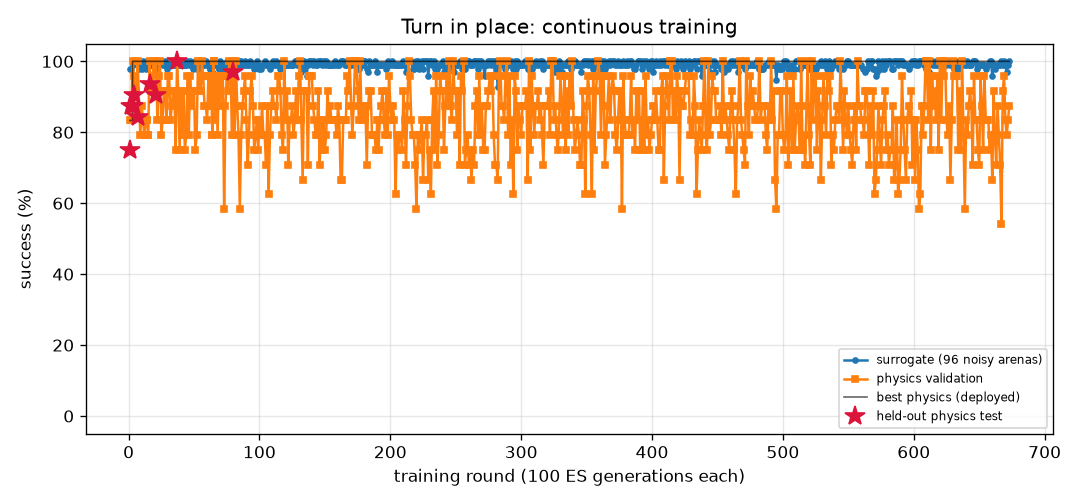
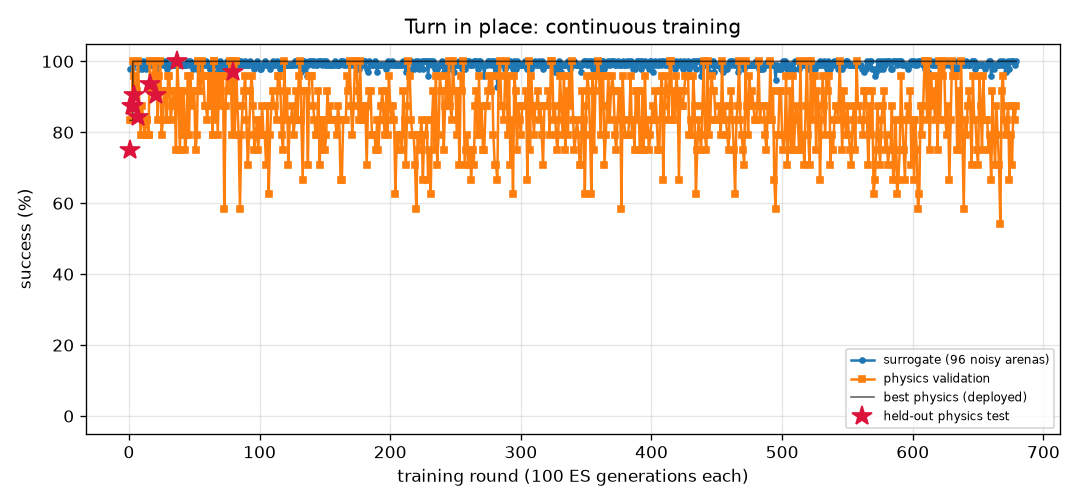
FlyLab: continuous training progress
- walk_forward: optimal, physics val 100% of 24, round 197
- turn: optimal, physics val 100% of 24, round 679
- goto: optimal, physics val 100% of 24, round 173
- odor_seek: optimal, physics val 100% of 24, round 152
- odor_avoid: optimal, physics val 100% of 24, round 640
- light_seek: optimal, physics val 100% of 24, round 360
- light_avoid: optimal, physics val 100% of 24, round 375

diff --git a/projects/09_flylab/training/turn/REPORT.md b/projects/09_flylab/training/turn/REPORT.md
@@ -1,14 +1,14 @@
 # Turn in place (`turn`) — training report
 
-*Auto-generated by `train_brains.py`, last updated 2026-10-25T20:40:44.*
+*Auto-generated by `train_brains.py`, last updated 2026-10-26T00:01:20.*
 
 ![curve](curve.png)
 
 | | |
 |---|---|
-| rounds | 673 |
-| ES generations | 67300 |
-| physics runs | 16398 |
+| rounds | 679 |
+| ES generations | 67900 |
+| physics runs | 16542 |
 | status | **optimal** |
 | best brain | round 80: physics validation **100%** on 24 arenas, surrogate 100% |
 | held-out physics test | **97%** on 32 unseen arenas (95% CI 84%-99%) (errors: [1.6, 3.3, 6.3, 3.7, 1.1, 0.4, 2.4, 2.9, 0.1, 2.6, 0.5, 2.7, 1.5, 3.1, 4.5, 0.2, 0.5, 1.1, 2.0, 4.4, 2.8, 3.2, 0.3, 2.2, 0.5, 3.0, 0.3, 5.4, 0.4, 1.0, 4.7, 10.7]) |
@@ -17,12 +17,6 @@ Physics error per arena: deg from target heading (< 20 = success).
 
 | round | level | gens | sigma | surrogate | physics val | val errors | test | note |
 |---:|---:|---:|---:|---:|---:|---|---:|---|
-| 634 | 3 | 63400 | 0.025 | 98% | 75% | [2.4, 6.5, 5.5, 2.8, 14.5, 1.1, 8.1, 10.5, 7.8, 2.1, 7.5, 3.3, 0.2, 1.7, 6.9, 3.2, 3.2, 5.9, 4.2, 5.0, 3.0, 2.1, 7.0, 7.9] |  |  |
-| 635 | 3 | 63500 | 0.025 | 100% | 92% | [6.8, 4.0, 3.8, 0.0, 1.6, 1.7, 5.8, 1.5, 4.4, 1.6, 3.6, 0.9, 4.0, 1.0, 4.8, 12.4, 1.0, 3.2, 2.9, 4.9, 2.5, 0.7, 6.3, 6.3] |  |  |
-| 636 | 3 | 63600 | 0.024 | 99% | 75% | [4.9, 5.0, 13.5, 2.1, 1.9, 1.3, 5.2, 7.1, 4.3, 0.3, 3.5, 1.8, 1.7, 2.6, 4.7, 3.1, 1.8, 1.8, 3.0, 1.5, 4.4, 1.1, 4.3, 6.4] |  | restart from best |
-| 637 | 3 | 63700 | 0.024 | 99% | 100% | [3.8, 7.9, 3.4, 0.7, 1.9, 3.1, 4.2, 4.1, 2.5, 1.8, 1.8, 1.0, 3.8, 4.4, 2.6, 0.1, 1.4, 2.3, 0.5, 0.7, 5.7, 2.5, 1.0, 2.5] |  |  |
-| 638 | 3 | 63800 | 0.025 | 100% | 79% | [4.6, 4.8, 9.9, 1.4, 1.1, 2.3, 9.1, 8.4, 8.4, 2.4, 7.5, 3.1, 2.2, 1.9, 6.6, 4.5, 3.0, 3.0, 4.5, 4.5, 2.4, 2.9, 8.7, 8.8] |  |  |
-| 639 | 3 | 63900 | 0.024 | 99% | 58% | [5.8, 3.2, 4.4, 3.5, 0.0, 2.3, 7.4, 7.7, 5.1, 0.3, 7.3, 0.4, 0.8, 0.7, 5.7, 0.6, 0.8, 3.1, 0.5, 1.1, 4.4, 4.9, 7.9, 6.3] |  |  |
 | 640 | 3 | 64000 | 0.025 | 99% | 83% | [3.1, 4.8, 3.0, 2.6, 5.8, 0.9, 6.0, 4.4, 3.9, 0.1, 4.3, 0.4, 1.2, 0.2, 4.4, 0.3, 0.6, 0.6, 0.6, 0.1, 4.2, 1.0, 4.6, 1.1] |  | restart from best |
 | 641 | 3 | 64100 | 0.024 | 100% | 79% | [4.1, 3.2, 6.0, 0.4, 2.1, 0.6, 7.3, 6.6, 6.0, 0.7, 4.8, 1.0, 1.2, 1.1, 4.9, 10.8, 1.5, 1.7, 12.3, 0.4, 3.1, 1.8, 7.4, 8.0] |  |  |
 | 642 | 3 | 64200 | 0.024 | 99% | 88% | [4.4, 3.4, 0.6, 1.0, 2.5, 5.2, 3.7, 1.3, 5.0, 0.1, 3.8, 0.7, 1.6, 0.8, 4.3, 0.4, 1.0, 0.6, 0.3, 1.7, 5.4, 1.9, 5.2, 3.4] |  |  |
@@ -57,3 +51,9 @@ Physics error per arena: deg from target heading (< 20 = success).
 | 671 | 3 | 67100 | 0.025 | 97% | 79% | [8.4, 11.6, 4.7, 2.6, 1.4, 0.2, 2.3, 7.1, 2.0, 2.7, 1.7, 2.7, 3.3, 3.3, 2.5, 2.2, 2.6, 0.5, 2.0, 2.3, 7.5, 1.5, 1.5, 1.3] |  |  |
 | 672 | 3 | 67200 | 0.026 | 99% | 83% | [8.3, 9.3, 8.1, 2.9, 1.9, 0.1, 2.8, 1.1, 1.8, 2.5, 2.9, 1.4, 2.0, 5.8, 2.5, 2.0, 2.5, 1.0, 1.9, 2.0, 7.2, 3.7, 2.7, 7.3] |  | restart from best |
 | 673 | 3 | 67300 | 0.024 | 100% | 88% | [0.2, 0.5, 5.8, 1.5, 5.6, 0.4, 5.4, 7.3, 5.6, 0.8, 3.9, 1.2, 0.1, 0.2, 4.9, 3.0, 1.5, 2.0, 3.5, 0.9, 1.2, 2.1, 7.5, 4.3] |  |  |
+| 674 | 3 | 67400 | 0.024 | 98% | 67% | [2.3, 3.4, 8.1, 1.9, 2.0, 1.3, 7.2, 9.3, 6.7, 2.7, 6.0, 2.0, 2.7, 0.1, 6.9, 3.8, 1.8, 5.8, 1.7, 1.6, 4.7, 2.4, 6.3, 7.2] |  |  |
+| 675 | 3 | 67500 | 0.025 | 100% | 79% | [0.2, 5.4, 1.9, 0.2, 5.4, 2.3, 5.6, 6.8, 3.7, 0.0, 4.3, 0.3, 2.0, 1.5, 3.9, 1.0, 0.1, 2.5, 1.1, 2.5, 3.6, 0.6, 5.9, 3.1] |  |  |
+| 676 | 3 | 67600 | 0.024 | 100% | 71% | [7.3, 1.3, 6.9, 2.0, 5.8, 0.5, 6.8, 1.9, 6.4, 3.0, 5.2, 2.9, 5.4, 0.1, 7.0, 2.3, 3.4, 4.1, 3.2, 2.5, 1.8, 3.7, 7.2, 9.1] |  | restart from best |
+| 677 | 3 | 67700 | 0.024 | 100% | 88% | [7.8, 6.5, 2.9, 1.8, 1.8, 4.4, 5.6, 0.7, 5.5, 1.1, 3.7, 1.6, 1.7, 0.7, 4.0, 0.6, 1.6, 1.9, 0.0, 0.0, 3.3, 3.0, 4.7, 3.8] |  |  |
+| 678 | 3 | 67800 | 0.024 | 99% | 83% | [2.1, 3.5, 7.8, 1.9, 2.2, 0.4, 7.3, 9.2, 8.0, 1.2, 6.5, 3.0, 0.3, 0.4, 6.5, 3.5, 2.3, 2.8, 7.6, 2.5, 3.9, 0.2, 7.4, 9.5] |  |  |
+| 679 | 3 | 67900 | 0.025 | 100% | 88% | [9.2, 1.0, 7.4, 0.3, 0.6, 2.8, 7.3, 8.2, 6.2, 1.4, 6.6, 2.0, 1.9, 0.7, 6.2, 10.4, 2.1, 3.3, 13.3, 2.6, 1.6, 0.9, 7.2, 7.6] |  |  |

diff --git a/projects/09_flylab/training/odor_seek/REPORT.md b/projects/09_flylab/training/odor_seek/REPORT.md
@@ -1,14 +1,14 @@
 # Find food by smell (`odor_seek`) — training report
 
-*Auto-generated by `train_brains.py`, last updated 2026-10-25T19:28:35.*
+*Auto-generated by `train_brains.py`, last updated 2026-10-26T00:05:59.*
 
 ![curve](curve.png)
 
 | | |
 |---|---|
-| rounds | 149 |
-| ES generations | 14900 |
-| physics runs | 3006 |
+| rounds | 152 |
+| ES generations | 15200 |
+| physics runs | 3078 |
 | status | **optimal** |
 | best brain | round 137: physics validation **100%** on 24 arenas, surrogate 100% |
 | held-out physics test | **100%** on 32 unseen arenas (95% CI 89%-100%) (errors: [0.14, 0.05, 0.19, 0.15, 0.13, 0.08, 0.06, 0.06, 0.04, 0.06, 0.02, 0.11, 0.05, 0.1, 0.06, 0.01, 0.11, 0.12, 0.14, 0.08, 0.12, 0.06, 0.06, 0.09, 0.12, 0.05, 0.07, 0.07, 0.12, 0.11, 0.06, 0.11]) |
@@ -17,9 +17,6 @@ Physics error per arena: mm from target at the end (< 1.5 and standing still = s
 
 | round | level | gens | sigma | surrogate | physics val | val errors | test | note |
 |---:|---:|---:|---:|---:|---:|---|---:|---|
-| 110 | 3 | 11000 | 0.024 | 100% | 100% | [0.23, 0.26, 0.24, 0.27, 0.23, 0.29, 0.29, 0.24, 0.27, 0.26, 0.19, 0.19, 0.24, 0.31, 0.26, 0.21, 0.22, 0.29, 0.19, 0.21, 0.31, 0.31, 0.22, 0.25] |  |  |
-| 111 | 3 | 11100 | 0.024 | 100% | 100% | [0.24, 0.31, 0.18, 0.2, 0.18, 0.25, 0.28, 0.22, 0.25, 0.21, 0.23, 0.25, 0.23, 0.25, 0.3, 0.21, 0.23, 0.23, 0.22, 0.23, 0.24, 0.22, 0.21, 0.29] |  | restart from best |
-| 112 | 3 | 11200 | 0.024 | 100% | 100% | [0.18, 0.24, 0.17, 0.16, 0.22, 0.19, 0.17, 0.21, 0.24, 0.22, 0.16, 0.16, 0.15, 0.18, 0.17, 0.24, 0.16, 0.23, 0.18, 0.2, 0.21, 0.2, 0.18, 0.17] |  |  |
 | 113 | 3 | 11300 | 0.024 | 100% | 100% | [0.22, 0.22, 0.19, 0.25, 0.3, 0.28, 0.26, 0.19, 0.28, 0.21, 0.23, 0.26, 0.23, 0.28, 0.21, 0.27, 0.25, 0.19, 0.25, 0.25, 0.2, 0.23, 0.27, 0.23] |  |  |
 | 114 | 3 | 11400 | 0.024 | 100% | 100% | [0.21, 0.29, 0.2, 0.22, 0.18, 0.24, 0.18, 0.23, 0.18, 0.24, 0.16, 0.28, 0.19, 0.25, 0.23, 0.22, 0.2, 0.17, 0.25, 0.19, 0.16, 0.19, 0.2, 0.15] |  |  |
 | 115 | 3 | 11500 | 0.024 | 100% | 100% | [0.3, 0.2, 0.32, 0.18, 0.18, 0.26, 0.22, 0.28, 0.26, 0.21, 0.21, 0.21, 0.24, 0.26, 0.27, 0.25, 0.26, 0.34, 0.23, 0.25, 0.22, 0.25, 0.21, 0.19] |  | restart from best |
@@ -57,3 +54,6 @@ Physics error per arena: mm from target at the end (< 1.5 and standing still = s
 | 147 | 3 | 14700 | 0.024 | 100% | 100% | [0.07, 0.16, 0.05, 0.07, 0.08, 0.22, 0.08, 0.16, 0.13, 0.11, 0.05, 0.19, 0.14, 0.05, 0.06, 0.14, 0.1, 0.07, 0.15, 0.15, 0.03, 0.19, 0.16, 0.09] |  |  |
 | 148 | 3 | 14800 | 0.024 | 100% | 100% | [0.13, 0.25, 0.17, 0.21, 0.22, 0.12, 0.2, 0.24, 0.22, 0.14, 0.24, 0.17, 0.21, 0.14, 0.18, 0.14, 0.15, 0.19, 0.25, 0.14, 0.3, 0.16, 0.17, 0.16] |  |  |
 | 149 | 3 | 14900 | 0.024 | 100% | 100% | [0.18, 0.16, 0.18, 0.16, 0.17, 0.23, 0.22, 0.17, 0.32, 0.18, 0.24, 0.17, 0.17, 0.19, 0.23, 0.19, 0.22, 0.2, 0.2, 0.16, 0.14, 0.2, 0.25, 0.25] |  | restart from best |
+| 150 | 3 | 15000 | 0.024 | 100% | 100% | [0.21, 0.17, 0.12, 0.12, 0.12, 0.04, 0.14, 0.06, 0.09, 0.12, 0.14, 0.13, 0.06, 0.05, 0.11, 0.06, 0.09, 0.18, 0.1, 0.09, 0.12, 0.04, 0.09, 0.12] |  |  |
+| 151 | 3 | 15100 | 0.024 | 100% | 100% | [0.15, 0.21, 0.2, 0.2, 0.14, 0.22, 0.23, 0.17, 0.26, 0.21, 0.14, 0.18, 0.25, 0.12, 0.19, 0.19, 0.16, 0.25, 0.23, 0.16, 0.21, 0.09, 0.21, 0.15] |  |  |
+| 152 | 3 | 15200 | 0.024 | 100% | 96% | [0.16, 0.11, 0.2, 0.09, 0.2, 0.22, 0.12, 0.07, 0.13, 0.14, 1.17, 0.2, 0.08, 0.1, 0.15, 0.11, 0.14, 0.17, 0.16, 0.25, 0.2, 0.13, 0.14, 0.13] |  |  |

diff --git a/projects/09_flylab/training/walk_forward/REPORT.md b/projects/09_flylab/training/walk_forward/REPORT.md
@@ -1,14 +1,14 @@
 # Walk forward (`walk_forward`) — training report
 
-*Auto-generated by `train_brains.py`, last updated 2026-10-25T23:04:02.*
+*Auto-generated by `train_brains.py`, last updated 2026-10-25T23:16:13.*
 
 ![curve](curve.png)
 
 | | |
 |---|---|
-| rounds | 196 |
-| ES generations | 19600 |
-| physics runs | 4718 |
+| rounds | 197 |
+| ES generations | 19700 |
+| physics runs | 4742 |
 | status | **optimal** |
 | best brain | round 116: physics validation **100%** on 24 arenas, surrogate 100% |
 | held-out physics test | **100%** on 32 unseen arenas (95% CI 89%-100%) (errors: [0.13, 0.16, 0.19, 0.16, 0.15, 0.2, 0.17, 0.18, 0.17, 0.19, 0.2, 0.14, 0.17, 0.19, 0.2, 0.2, 0.13, 0.19, 0.16, 0.2, 0.2, 0.16, 0.17, 0.2, 0.13, 0.15, 0.18, 0.14, 0.16, 0.15, 0.19, 0.12]) |
@@ -17,7 +17,6 @@ Physics error per arena: mm from target at the end (< 1.5 and standing still = s
 
 | round | level | gens | sigma | surrogate | physics val | val errors | test | note |
 |---:|---:|---:|---:|---:|---:|---|---:|---|
-| 157 | 3 | 15700 | 0.024 | 99% | 100% | [0.26, 0.33, 0.19, 0.26, 0.33, 0.19, 0.32, 0.21, 0.33, 0.32, 0.2, 0.3, 0.2, 0.19, 0.28, 0.31, 0.25, 0.31, 0.21, 0.3, 0.23, 0.31, 0.3, 0.2] |  |  |
 | 158 | 3 | 15800 | 0.025 | 100% | 100% | [0.23, 0.3, 0.18, 0.23, 0.3, 0.18, 0.31, 0.18, 0.31, 0.31, 0.19, 0.28, 0.17, 0.18, 0.26, 0.3, 0.21, 0.3, 0.18, 0.27, 0.18, 0.31, 0.28, 0.17] |  |  |
 | 159 | 3 | 15900 | 0.024 | 100% | 100% | [0.24, 0.24, 0.2, 0.24, 0.24, 0.2, 0.24, 0.22, 0.24, 0.23, 0.19, 0.21, 0.22, 0.2, 0.24, 0.21, 0.23, 0.24, 0.22, 0.24, 0.23, 0.22, 0.21, 0.22] |  |  |
 | 160 | 3 | 16000 | 0.024 | 100% | 100% | [0.28, 0.28, 0.23, 0.29, 0.28, 0.22, 0.28, 0.25, 0.28, 0.25, 0.21, 0.24, 0.24, 0.22, 0.28, 0.25, 0.28, 0.28, 0.26, 0.28, 0.27, 0.26, 0.23, 0.25] |  | restart from best |
@@ -57,3 +56,4 @@ Physics error per arena: mm from target at the end (< 1.5 and standing still = s
 | 194 | 3 | 19400 | 0.024 | 100% | 100% | [0.2, 0.24, 0.21, 0.19, 0.24, 0.22, 0.24, 0.21, 0.24, 0.27, 0.22, 0.28, 0.2, 0.21, 0.2, 0.28, 0.2, 0.22, 0.2, 0.21, 0.2, 0.27, 0.28, 0.21] |  |  |
 | 195 | 3 | 19500 | 0.024 | 100% | 75% | [0.19, 0.26, 0.02, 0.05, 0.26, 0.02, 0.27, 0.42, 0.26, 0.27, 0.08, 0.27, 0.07, 0.13, 0.22, 0.27, 0.05, 0.26, 0.1, 0.23, 0.34, 0.27, 0.27, 0.11] |  |  |
 | 196 | 3 | 19600 | 0.024 | 100% | 100% | [0.26, 0.29, 0.21, 0.25, 0.29, 0.21, 0.28, 0.22, 0.29, 0.29, 0.2, 0.28, 0.22, 0.21, 0.27, 0.28, 0.25, 0.28, 0.22, 0.27, 0.23, 0.28, 0.27, 0.22] |  | restart from best |
+| 197 | 3 | 19700 | 0.024 | 100% | 58% | [0.02, 0.05, 0.08, 0.57, 0.19, 0.34, 0.06, 0.07, 0.05, 0.2, 0.07, 0.1, 0.16, 0.26, 0.36, 0.05, 0.09, 0.05, 0.39, 0.12, 0.51, 0.25, 0.07, 0.44] |  |  |

diff --git a/projects/09_flylab/training/TRAINING.md b/projects/09_flylab/training/TRAINING.md
@@ -1,15 +1,15 @@
 # FlyLab brains — continuous training log
 
-*Auto-generated by `train_brains.py`, last updated 2026-10-25T23:05:34.*
+*Auto-generated by `train_brains.py`, last updated 2026-10-26T00:05:59.*
 
 Every skill has its own brain and its own training process: surrogate ES rounds, physics validation in MuJoCo, keep-the-best selection, and a held-out physics test that is never used for selection. See each skill's report for its full round-by-round history. Mastery is progressive: passing a level (100% physics validation, >=95% surrogate) doubles the validation and test arena sets; a brain is **optimal** once it holds up at level 3 (>=95% of 24 validation arenas) AND scores >=90% on the 32 held-out test arenas. Test columns show 95% Wilson confidence intervals.
 
 | skill | rounds | ES generations | physics runs | surrogate | physics val | **physics test** | status |
 |---|---:|---:|---:|---:|---:|---:|---|
-| [Walk forward](walk_forward/REPORT.md) | 196 | 19600 | 4718 | 100% | 100% of 24 | 100% of 32 (CI 89-100%) | **optimal** |
-| [Turn in place](turn/REPORT.md) | 673 | 67300 | 16398 | 100% | 100% of 24 | 97% of 32 (CI 84-99%) | **optimal** |
+| [Walk forward](walk_forward/REPORT.md) | 197 | 19700 | 4742 | 100% | 100% of 24 | 100% of 32 (CI 89-100%) | **optimal** |
+| [Turn in place](turn/REPORT.md) | 679 | 67900 | 16542 | 100% | 100% of 24 | 97% of 32 (CI 84-99%) | **optimal** |
 | [Go to a location](goto/REPORT.md) | 173 | 17300 | 4070 | 99% | 100% of 24 | 100% of 32 (CI 89-100%) | **optimal** |
-| [Find food by smell](odor_seek/REPORT.md) | 149 | 14900 | 3006 | 100% | 100% of 24 | 100% of 32 (CI 89-100%) | **optimal** |
+| [Find food by smell](odor_seek/REPORT.md) | 152 | 15200 | 3078 | 100% | 100% of 24 | 100% of 32 (CI 89-100%) | **optimal** |
 | [Escape a bad smell](odor_avoid/REPORT.md) | 640 | 64000 | 12666 | 97% | 100% of 24 | 97% of 32 (CI 84-99%) | **optimal** |
 | [Walk toward light](light_seek/REPORT.md) | 360 | 36000 | 5488 | 100% | 100% of 24 | 100% of 32 (CI 89-100%) | **optimal** |
 | [Hide from light](light_avoid/REPORT.md) | 375 | 37500 | 9272 | 100% | 100% of 24 | 100% of 32 (CI 89-100%) | **optimal** |
